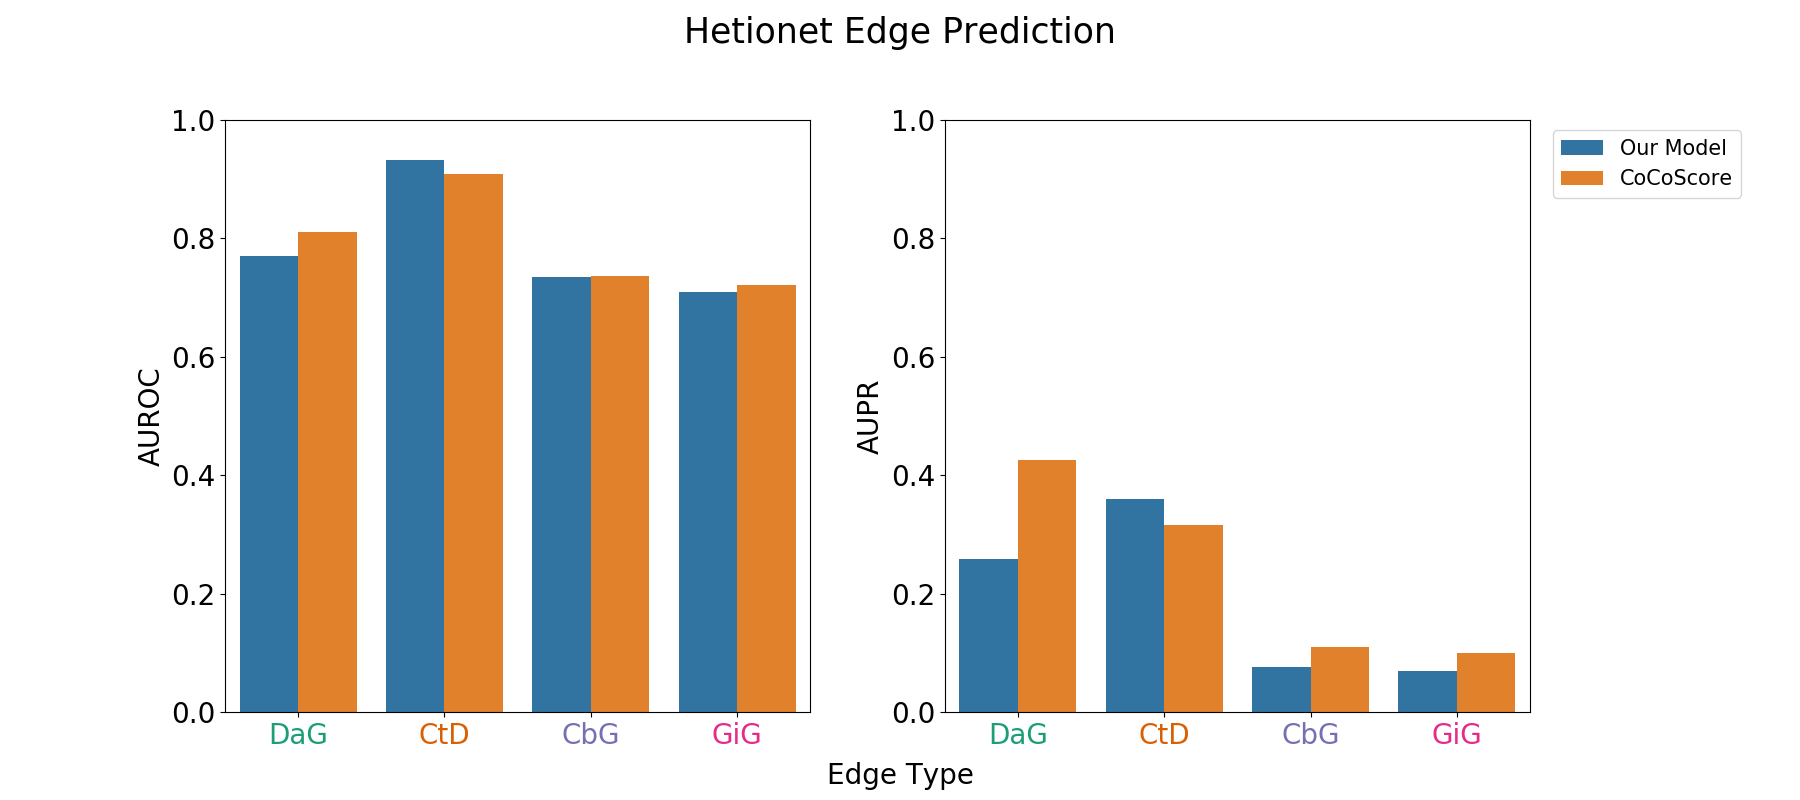
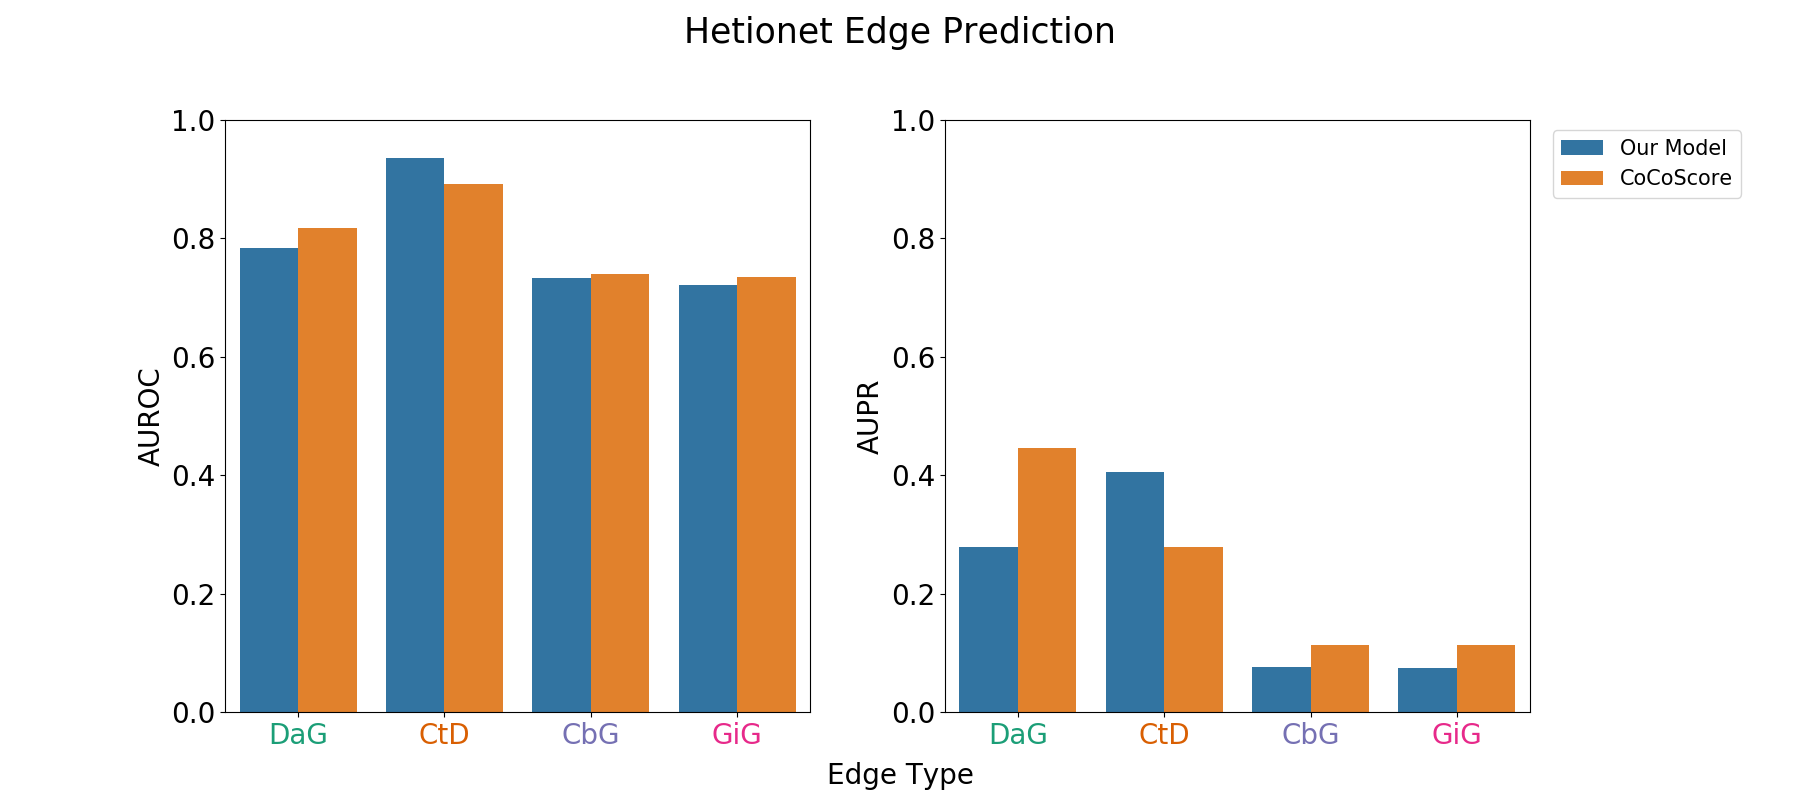
Changed model to report test set edges

diff --git a/figures/literature_models/plot_scripts/coco_score_comparison.py b/figures/literature_models/plot_scripts/coco_score_comparison.py
@@ -11,6 +11,66 @@ import re
 plt.switch_backend('agg')
 
 
+def get_data_frames(file_tree_dict):
+    df_mapper = {}
+
+    for key in file_tree:
+
+        id_keys = (
+            ["doid_id", "entrez_gene_id"] if key == "DaG" else
+            ["doid_id", "drugbank_id"] if key == "CtD" else
+            ["drugbank_id", "entrez_gene_id"] if key == "CbG" else
+            ["gene1_id", "gene2_id"]
+        )
+
+        df_mapper[key] = {
+            "coco_score": (
+                pd.read_csv(
+                    file_tree[key]["coco_score"],
+                    sep="\t"
+                )
+            ),
+            "our_model": (
+                pd.read_csv(
+                    file_tree[key]["our_model"],
+                    sep="\t"
+                )
+            )
+        }
+
+        labels_df = (
+            pd
+            .read_csv(file_tree[key]["labels"], sep="\t")
+            .query(f"split=={file_tree[key]['split']}")
+        )
+
+        df_mapper[key]['coco_score'] = (
+            df_mapper[key]['coco_score']
+            [
+                (
+                    df_mapper[key]['coco_score'][id_keys[0]]
+                    .isin(labels_df[id_keys[0]])
+                ) & (
+                    df_mapper[key]['coco_score'][id_keys[1]]
+                    .isin(labels_df[id_keys[1]])
+                )
+            ]
+        )
+
+        df_mapper[key]['our_model'] = (
+            df_mapper[key]['our_model']
+            [(
+                    df_mapper[key]['our_model'][id_keys[0]]
+                    .isin(labels_df[id_keys[0]])
+                ) & (
+                    df_mapper[key]['our_model'][id_keys[1]]
+                    .isin(labels_df[id_keys[1]])
+                )]
+        )
+
+    return df_mapper
+
+
 def plot_performance_graph(
     title="",
     file_name="",
@@ -26,62 +86,62 @@ def plot_performance_graph(
         color_map - the color coded to plot each point on
     """
     fig, axes = plt.subplots(1, 2, figsize=(18, 8), sharex='row')
-    
+
     data_entry = []
     for edge_type in data:
 
         max_model_df = (
             data[edge_type]["our_model"]
             .groupby(
-                ["doid_id", "entrez_gene_id"] if edge_type == "DaG" else 
-                ["doid_id", "drugbank_id"] if edge_type =="CtD" else 
+                ["doid_id", "entrez_gene_id"] if edge_type == "DaG" else
+                ["doid_id", "drugbank_id"] if edge_type == "CtD" else
                 ["drugbank_id", "entrez_gene_id"] if edge_type == "CbG" else
                 ["gene1_id", "gene2_id"]
             )
             .agg({
-                "model_prediction": 'max', 
+                "model_prediction": 'max',
                 "hetionet": 'max',
             })
         )
-        
+
         fpr, tpr, _ = roc_curve(
+            max_model_df["hetionet"],
+            max_model_df["model_prediction"]
+        )
+
+        precision, recall, _ = precision_recall_curve(
             max_model_df["hetionet"], 
             max_model_df["model_prediction"]
         )
-        
-        precision,recall, _ = precision_recall_curve(
-            max_model_df["hetionet"], 
-            max_model_df["model_prediction"]
-        )
-        
+
         data_entry.append({
-            "AUROC":auc(fpr, tpr),
-            "AUPR":auc(recall, precision),
+            "AUROC": auc(fpr, tpr),
+            "AUPR": auc(recall, precision),
             "Models": "Our Model",
             "Edge_Type": edge_type
         })
-        
+
         fpr, tpr, _ = roc_curve(
-            data[edge_type]["coco_score"]["hetionet"], 
+            data[edge_type]["coco_score"]["hetionet"],
             data[edge_type]["coco_score"]["final_score"]
         )
-        
-        precision,recall, _ = precision_recall_curve(
-            data[edge_type]["coco_score"]["hetionet"], 
+
+        precision, recall, _ = precision_recall_curve(
+            data[edge_type]["coco_score"]["hetionet"],
             data[edge_type]["coco_score"]["final_score"]
         )
-        
+
         data_entry.append({
-            "AUROC":auc(fpr, tpr),
-            "AUPR":auc(recall, precision),
+            "AUROC": auc(fpr, tpr),
+            "AUPR": auc(recall, precision),
             "Models": "CoCoScore",
             "Edge_Type": edge_type
         })
 
     performance_df = pd.DataFrame.from_records(data_entry)
-    
+
     print(performance_df)
-    
+
     sns.barplot(x="Edge_Type", y="AUROC", hue="Models", data=performance_df, ax=axes[0])
     sns.barplot(x="Edge_Type", y="AUPR", hue="Models", data=performance_df, ax=axes[1])
     axes[0].set_xlabel('')
@@ -90,7 +150,7 @@ def plot_performance_graph(
     axes[1].set_ylim([0, 1])
     axes[0].get_legend().remove()
     axes[1].get_legend().remove()
-    
+
     # Change the font for each element of the graph
     for item in axes.flat:
         item.title.set_fontsize(20)
@@ -101,58 +161,57 @@ def plot_performance_graph(
 
         for tick in item.get_xticklabels():
             tick.set_color(color_map[tick.get_text()])
-            
+
     axes.flatten()[1].legend(loc='upper center', bbox_to_anchor=(1.2, 1.0), fontsize=15)
     # Add the subtitles and save the graph
-    #fig.text(0.5, 0.89, '', ha='center', fontsize=26)
+    # fig.text(0.5, 0.89, '', ha='center', fontsize=26)
     fig.text(0.5, 0.02, 'Edge Type', ha='center', fontsize=20)
-    #fig.text(0.04, 0.5, 'Performance Metric', va='center', rotation='vertical', fontsize=20)
+    # fig.text(0.04, 0.5, 'Performance Metric', va='center', rotation='vertical', fontsize=20)
     fig.suptitle(title, fontsize=25)
     plt.subplots_adjust(top=0.85, wspace=0.23, right=0.85)
     plt.savefig(file_name, format='png')
 
 # If running the script itself
 # execute the code below
+
+
 if __name__ == '__main__':
     file_tree = OrderedDict({
         "DaG":
         {
-            "coco_score":"../../../disease_gene/disease_associates_gene/literature_models/coco_score/results/dg_edge_prediction_cocoscore.tsv",
-            "our_model": "../../../disease_gene/disease_associates_gene/edge_prediction_experiment/results/combined_predicted_dag_sentences.tsv.xz"
+            "coco_score": "../../../disease_gene/disease_associates_gene/literature_models/coco_score/results/dg_edge_prediction_cocoscore.tsv",
+            "our_model": "../../../disease_gene/disease_associates_gene/edge_prediction_experiment/results/combined_predicted_dag_sentences.tsv.xz",
+            "labels": "../../../disease_gene/disease_associates_gene/dataset_statistics/results/all_dg_candidates.tsv.xz",
+            "split": 2
         },
         "CtD":
         {
-            "coco_score":"../../../compound_disease/compound_treats_disease/literature_models/coco_score/results/cd_edge_prediction_cocoscore.tsv",
-            "our_model": "../../../compound_disease/compound_treats_disease/edge_prediction_experiment/results/combined_predicted_ctd_sentences.tsv.xz"
+            "coco_score": "../../../compound_disease/compound_treats_disease/literature_models/coco_score/results/cd_edge_prediction_cocoscore.tsv",
+            "our_model": "../../../compound_disease/compound_treats_disease/edge_prediction_experiment/results/combined_predicted_ctd_sentences.tsv.xz",
+            "labels": "../../../compound_disease/compound_treats_disease/dataset_statistics/results/all_ctd_map.tsv.xz",
+            "split": 11
         },
         "CbG":
         {
-            "coco_score":"../../../compound_gene/compound_binds_gene/literature_models/coco_score/results/cg_edge_prediction_cocoscore.tsv",
-            "our_model": "../../../compound_gene/compound_binds_gene/edge_prediction_experiment/results/combined_predicted_cbg_sentences.tsv.xz"
+            "coco_score": "../../../compound_gene/compound_binds_gene/literature_models/coco_score/results/cg_edge_prediction_cocoscore.tsv",
+            "our_model": "../../../compound_gene/compound_binds_gene/edge_prediction_experiment/results/combined_predicted_cbg_sentences.tsv.xz",
+            "labels": "../../../compound_gene/compound_binds_gene/dataset_statistics/data/all_cbg_candidates.tsv.xz",
+            "split": 8
 
         },
         "GiG":
         {
-            "coco_score":"../../../gene_gene/gene_interacts_gene/literature_models/coco_score/results/gg_edge_prediction_cocoscore.tsv",
-            "our_model": "../../../gene_gene/gene_interacts_gene/edge_prediction_experiment/results/combined_predicted_gig_sentences.tsv.xz"
+            "coco_score": "../../../gene_gene/gene_interacts_gene/literature_models/coco_score/results/gg_edge_prediction_cocoscore.tsv",
+            "our_model": "../../../gene_gene/gene_interacts_gene/edge_prediction_experiment/results/combined_predicted_gig_sentences.tsv.xz",
+            "labels": "../../../gene_gene/gene_interacts_gene/dataset_statistics/results/all_gig_candidates.tsv.xz",
+            "split": 5
 
         }
     })
-
 
     # Use the file tree above and graph the appropiate files
-    edge_data_tree = OrderedDict({
-        key: {
-            sub_key:pd.read_csv(
-                file_tree[key][sub_key],
-                sep="\t"
-            )
-            for sub_key in file_tree[key]
-        }
-        for key in file_tree
-    })
+    edge_data_tree = get_data_frames(file_tree)
 
-    
     # Obtained from color brewer 2
     # 5 classes using the supposedly color blind friendly colors
     color_names = {
